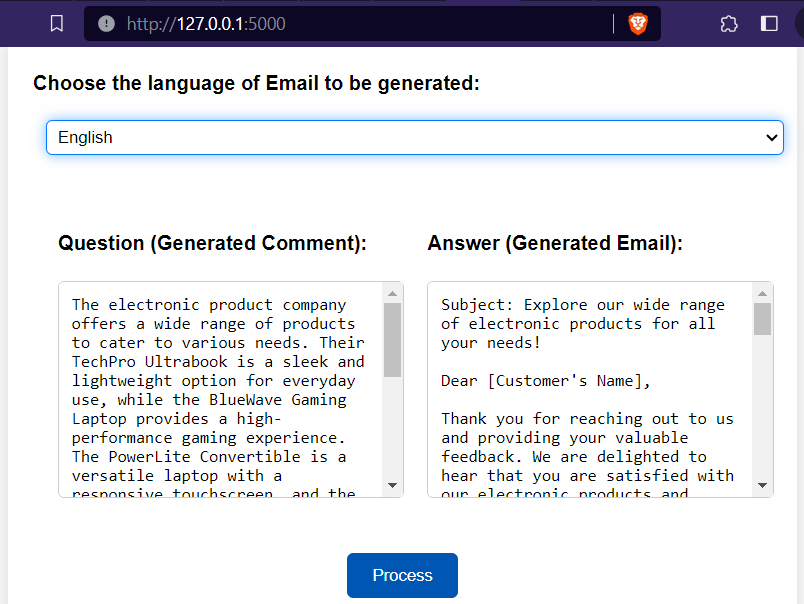
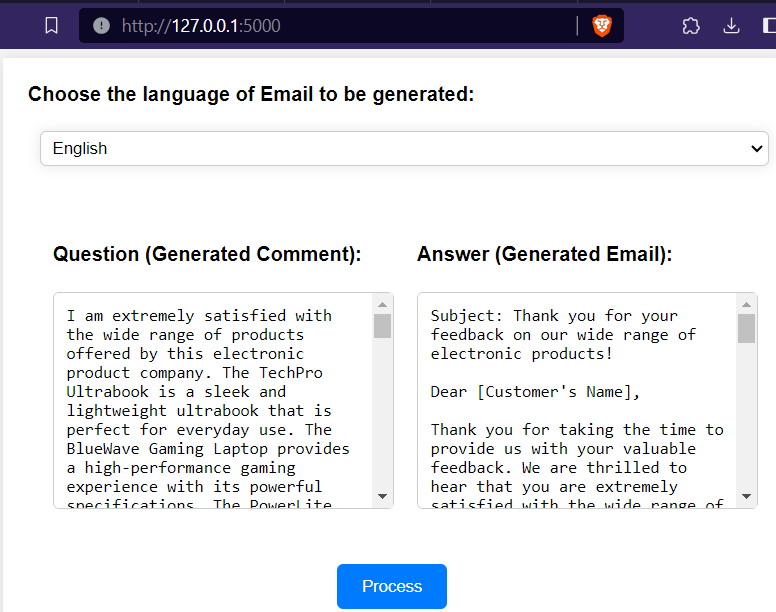
update

diff --git a/ChatGPT/Customer Support System (Email to customer)/app.py b/ChatGPT/Customer Support System (Email to customer)/app.py
@@ -40,7 +40,7 @@ def generate_customer_comment(products_data):
 def generate_email_subject(comment):
     prompt=f"""
     Asuming that you provide customer support for an electronic product company.
-    Based on the customer comment delimited in triple backticks, suggest a short email subject. 
+    Based on the customer comment delimited in triple backticks, suggest a short email subject to respond to customer. 
     Comment= ```{comment}```
     """
     response=get_completion(prompt)

diff --git a/ChatGPT/Customer Support System (Email to customer)/Readme.md b/ChatGPT/Customer Support System (Email to customer)/Readme.md
@@ -103,7 +103,7 @@ To run this application, follow these implementation steps:
 
 Once the application is running, open a web browser and navigate to `http://localhost:5000`. You can then interact with the system as follows:
 
-<img src="img/english comment.png">
+<img src="img/eng comment.png">
 
 - Choose the desired language from the dropdown menu.
 - View the generated customer comment in the "Question" container.
